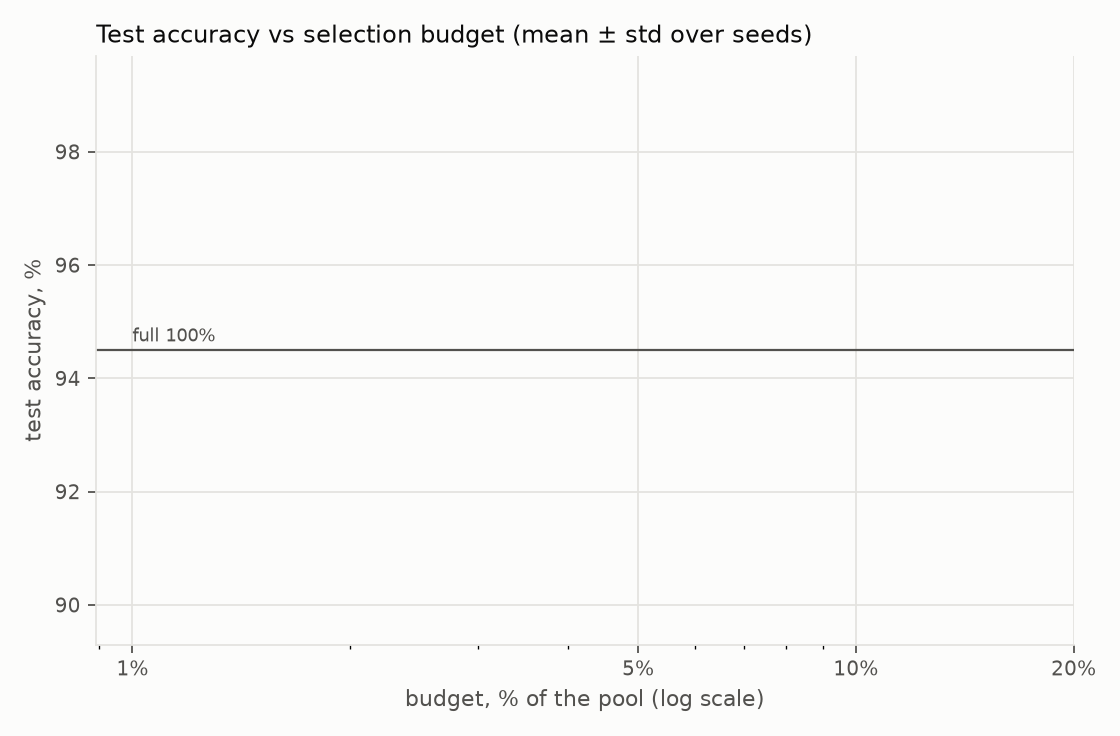
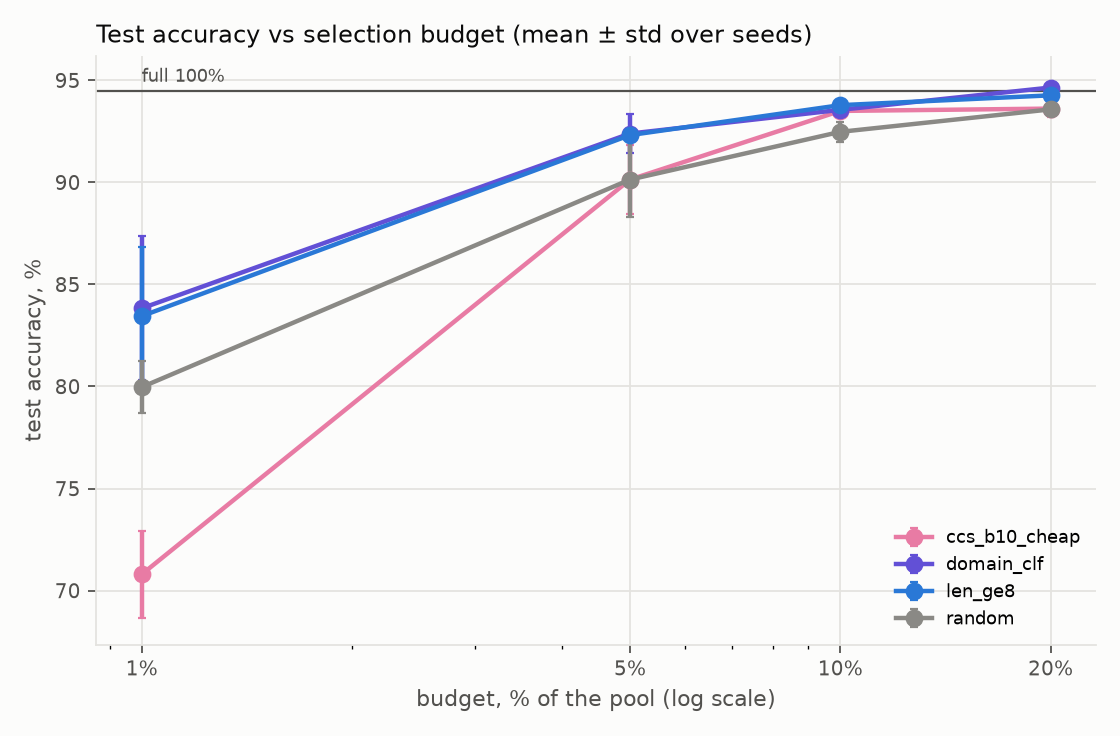
Add budget sweep (1-20%%) results and analysis to report

diff --git a/REPORT.md b/REPORT.md
@@ -17,6 +17,9 @@
   Ранги стратегий на val и test не коррелируют (ρ = −0.04).
 - Дорогие скоры трудности можно заменить дешёвыми (1 эпоха на 10% данных, ≈ 9× меньше вычислений)
   без потери качества отбора.
+- Проверка на бюджетах 1–20%: доменный отбор лучше random на всех бюджетах, а на 20% **сравнивается
+  с обучением на всех данных** (0.946 против 0.945). CCS выигрывает только около 10%, а на 1%
+  проваливается (−9 п.п.): при малом бюджете трудные примеры вредят.
 
 ---
 
@@ -273,6 +276,36 @@ DSIR приближает n-граммное распределение подм
 Гибрид на дешёвых скорах (`ccs_len8_cheap`) нестабилен: один из трёх сидов упал до 0.864 при почти
 идентичных подмножествах — признак нестабильности обучения на трудных примерах, а не отбора.
 
+**Зависимость от бюджета.** Три лучших подхода (ручной фильтр, доменный классификатор и CCS на дешёвых
+скорах) и random мы повторили на бюджетах 1%, 5% и 20% пула (653, 3 267 и 13 069 примеров, по 3 сида).
+Скоры и гиперпараметры те же, что для 10%.
+
+![budget sweep](results/figures/budget_sweep.png)
+
+| бюджет | random | len_ge8 | domain_clf | ccs_b10_cheap |
+|---|---|---|---|---|
+| 1% | 0.800 ± 0.013 | 0.834 (+3.5, p = 0.21) | 0.838 (+3.9, p = 0.19) | **0.708 (−9.2, p = 0.006)** |
+| 5% | 0.901 ± 0.018 | 0.923 (+2.2, p = 0.18) | 0.924 (+2.3, p = 0.16) | 0.901 (0.0) |
+| 10% | 0.925 ± 0.005 | 0.938 (+1.3, p = 0.003) | 0.936 (+1.1, p = 0.004) | 0.935 (+1.0, p = 0.008) |
+| 20% | 0.936 ± 0.002 | 0.943 (+0.7, p = 0.08) | **0.946 (+1.1, p = 0.004)** | 0.936 (0.0) |
+
+В скобках разница с random в п.п. и p (Welch). На 1% и 5% разброс между сидами большой (до 3.5 п.п.),
+поэтому при трёх сидах выигрыш доменного отбора там не значим, хотя его знак не меняется.
+
+- **Отбор под целевой домен помогает на всех бюджетах.** Выигрыш в абсолютных п.п. сжимается с ростом
+  бюджета (+3.9 → +1.1), но не исчезает. На 20% `domain_clf` (0.946) **сравнялся с обучением на всех
+  данных** (0.945): в 5 раз меньше данных при том же качестве. Ручной порог на 20% отстаёт от
+  автоматического: длинных фраз в пуле около 30 тысяч, и равномерная выборка из них уже не так
+  концентрирована на «предложениях», как ранжирование по log-odds.
+- **У CCS выигрыш есть только около 10%.** Подмножество CCS устроено одинаково на всех бюджетах:
+  15% лёгких примеров (EL2N < 0.1) против 66% у random. На 10% это дало +1.0 п.п., на 5% и 20% — ноль,
+  а на 1% — падение на 9 п.п. Это согласуется с Sorscher et al. (2022): при маленьком бюджете нужны
+  лёгкие, прототипичные примеры, а трудные помогают, только когда данных уже достаточно. Ни один
+  фиксированный критерий трудности не работает на всех бюджетах: β и долю лёгких примеров нужно
+  подбирать под бюджет.
+- **10% — не случайная точка.** Вывод «coverage-метод на уровне доменного фильтра» верен только для
+  10%. На других бюджетах доменный отбор надёжно лучше CCS.
+
 ## 7. Рекомендации
 
 1. **Сначала посмотреть на сдвиг между train и целевым распределением.** Если он есть, отбор под
@@ -280,7 +313,8 @@ DSIR приближает n-граммное распределение подм
    на эмбеддингах и небольшой неразмеченной целевой выборке; лексические методы (DSIR) годятся, только
    если сдвиг лексический.
 2. **Не отбирать top-k по трудности.** В реальных датасетах хвост трудности — это шум разметки.
-   Трудность использовать только с отсечением хвоста (CCS, D² с β) или для поиска шума.
+   Трудность использовать только с отсечением хвоста (CCS, D² с β) или для поиска шума. При очень
+   малом бюджете (~1%) отбор по трудности вреден даже с отсечением: нужны лёгкие примеры.
 3. **Контролировать баланс классов** у любого скорингового отбора.
 4. **Скоры трудности считать дёшево** (короткое обучение на подвыборке или прокси-модель): для
    coverage-методов этого достаточно.
@@ -298,8 +332,10 @@ DSIR приближает n-граммное распределение подм
   test-метрикам.
 - Динамика обучения записана по 3 эпохам; Cartography обычно строят по 5+.
 - По val выбирается эпоха, поэтому val-метрики слегка завышены у всех стратегий одинаково.
-- Один бюджет (10%), одна модель, один датасет. Известно, что выгода от трудных примеров растёт с
-  бюджетом (Sorscher et al., 2022), — при 20–50% выводы о важности могут измениться.
+- Основное сравнение проведено на одном бюджете (10%). Свип 1–20% охватывает только 4 стратегии с
+  3 сидами, и на 1–5% разброс слишком велик для значимых выводов. Одна модель, один датасет.
+- Бюджеты выше 20% не проверялись. По Sorscher et al. (2022) выгода от трудных примеров растёт с
+  бюджетом, поэтому при 30–50% выводы о важности могут измениться.
 - Эмбеддинги для разнообразия и Moderate — MiniLM, а не признаки дообученной модели.
 
 ## 9. Воспроизведение
